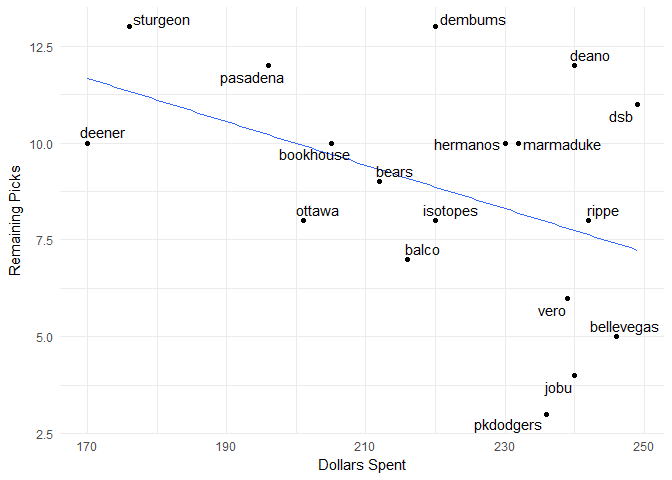
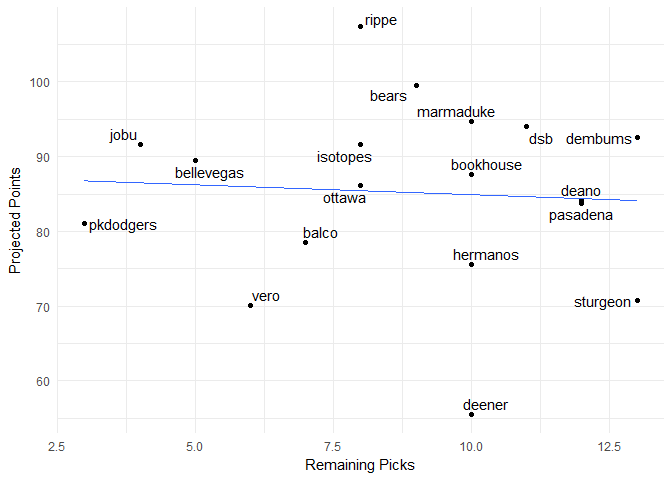
corrected remaining picks graphic label

diff --git a/draftguide.md b/draftguide.md
@@ -143,7 +143,9 @@
 #### Dollars vs. projected points
 
 ![](draftguide_files/figure-markdown_strict/unnamed-chunk-8-1.png)
-\#\#\#\#Dollars vs. Remaining Picks
+
+#### Remaining Picks vs. projected points
+
 ![](draftguide_files/figure-markdown_strict/unnamed-chunk-9-1.png)
 
 #### Data entry errors
